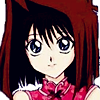
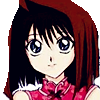
optimise the show of peopleview

Changed region(s): [[0.0, 0.0, 0.21, 0.93], [0.69, 0.0, 0.99, 0.36]]

diff --git a/TaleofMonsters2/Forms/PeopleViewForm.cs b/TaleofMonsters2/Forms/PeopleViewForm.cs
@@ -23,7 +23,7 @@ namespace TaleofMonsters.Forms
         private bool showImage;
         private int realTar = -1;
         private ImageToolTip tooltip = MainItem.SystemToolTip.Instance;
-        private List<DbRivalState> people;
+        private List<DbRivalState> peopleList;
         private VirtualRegion vRegion;
 
         private List<int> types;
@@ -32,7 +32,7 @@ namespace TaleofMonsters.Forms
         {
             InitializeComponent();
             this.bitmapButtonClose.ImageNormal = PicLoader.Read("Button.Panel", "CloseButton1.JPG");
-            people = new List<DbRivalState>();
+            peopleList = new List<DbRivalState>();
             vRegion = new VirtualRegion(this);
             vRegion.AddRegion(new PictureRegion(1, 41, 40, 70, 70, PictureRegionCellType.People, 0));
             for (int i = 0; i < 20; i++)
@@ -76,9 +76,7 @@ namespace TaleofMonsters.Forms
             IsChangeBgm = true;
 
             if (UserProfile.InfoBasic.LastRival > 0)
-            {
                 FastBind(UserProfile.InfoBasic.LastRival);
-            }
         }
 
         private void Fight()
@@ -86,7 +84,7 @@ namespace TaleofMonsters.Forms
             if (realTar == -1)
                 return;
 
-            PeopleConfig peopleConfig = ConfigData.GetPeopleConfig(people[realTar].Pid);
+            PeopleConfig peopleConfig = ConfigData.GetPeopleConfig(peopleList[realTar].Pid);
             if (peopleConfig.Emethod == "")
             {
                 ControlPlus.MessageBoxEx.Show("目前版本暂不开放！");
@@ -101,15 +99,13 @@ namespace TaleofMonsters.Forms
         private static List<int> GetPeopleAvailTypes()
         {
             List<int> typeLists = new List<int>();
-            foreach (var person in UserProfile.InfoRival.Rivals.Values)
+            foreach (var rivalData in UserProfile.InfoRival.Rivals.Values)
             {
-                if (person.Avail)
+                if (rivalData.Avail)
                 {
-                    int personType = ConfigData.GetPeopleConfig(person.Pid).Type;
-                    if (personType!=0 && !typeLists.Contains(personType))
-                    {
+                    int personType = ConfigData.GetPeopleConfig(rivalData.Pid).Type;
+                    if (personType != 0 && !typeLists.Contains(personType))
                         typeLists.Add(personType);
-                    }
                 }
             }
             typeLists.Sort();
@@ -118,8 +114,7 @@ namespace TaleofMonsters.Forms
 
         private void Bind(int type)
         {
-            people.Clear();
-            int off = 2;
+            peopleList.Clear();
 
             for (int i = 0; i < 20; i++)
             {
@@ -127,32 +122,35 @@ namespace TaleofMonsters.Forms
                 vRegion.SetRegionDecorator(i + 2, 0, "");
             }
 
-            foreach (var person in UserProfile.InfoRival.Rivals.Values)
+            foreach (var rivalData in UserProfile.InfoRival.Rivals.Values)
             {
-                if (person.Avail)
+                if (rivalData.Avail)
                 {
-                    PeopleConfig personInfo = ConfigData.GetPeopleConfig(person.Pid);
-                    if (personInfo.Type == type)
-                    {
-                        people.Add(person);
-                        vRegion.SetRegionKey(off, person.Pid);
-                        vRegion.SetRegionDecorator(off, 0, personInfo.Name);
-                        off++;
-                    }
+                    PeopleConfig peopleConfig = ConfigData.GetPeopleConfig(rivalData.Pid);
+                    if (peopleConfig.Type == type)
+                        peopleList.Add(rivalData);
                 }
             }
 
+            peopleList.Sort(new DbRivalState.CompareByQuality());
+            int off = 2;
+            foreach (var rivalData in peopleList)
+            {
+                vRegion.SetRegionKey(off, rivalData.Pid);
+                PeopleConfig peopleConfig = ConfigData.GetPeopleConfig(rivalData.Pid);
+                vRegion.SetRegionDecorator(off, 0, peopleConfig.Name);
+                off++;
+            }
             realTar = 0;
-            vRegion.SetRegionKey(1, people[realTar].Pid);
+            vRegion.SetRegionKey(1, peopleList[realTar].Pid);
             Invalidate();
         }
 
         private void virtualRegion_RegionEntered(int id, int x, int y, int key)
         {
-
             if (id == 1 && realTar != -1)
             {
-                Image image = PeopleBook.GetPreview(people[realTar].Pid);
+                Image image = PeopleBook.GetPreview(peopleList[realTar].Pid);
                 tooltip.Show(image, this, x, y);
             }
             else
@@ -173,11 +171,11 @@ namespace TaleofMonsters.Forms
                 if (id > 1 && id < 30)
                 {
                     int tar = id - 2;                   
-                    if (tar < people.Count)
+                    if (tar < peopleList.Count)
                     {
                         realTar = tar;
-                        vRegion.SetRegionKey(1, people[realTar].Pid);
-                        UserProfile.InfoBasic.LastRival = people[realTar].Pid;
+                        vRegion.SetRegionKey(1, peopleList[realTar].Pid);
+                        UserProfile.InfoBasic.LastRival = peopleList[realTar].Pid;
                         Invalidate();
                     }
                 }
@@ -202,9 +200,9 @@ namespace TaleofMonsters.Forms
                 return;
             Bind(peopleConfig.Type);
             vRegion.SetRegionKey(1, id);
-            for (int i = 0; i < people.Count; i++)
+            for (int i = 0; i < peopleList.Count; i++)
             {
-                if (people[i].Pid == id)
+                if (peopleList[i].Pid == id)
                 {
                     realTar = i;
                     break;
@@ -239,7 +237,7 @@ namespace TaleofMonsters.Forms
                     int xoff = 35;
                     int yoff = 35;
                     Font fontsong = new Font("宋体", 10*1.33f, FontStyle.Regular, GraphicsUnit.Pixel);
-                    PeopleConfig peopleConfig = ConfigData.GetPeopleConfig(people[realTar].Pid);
+                    PeopleConfig peopleConfig = ConfigData.GetPeopleConfig(peopleList[realTar].Pid);
                     e.Graphics.DrawString(string.Format("{0} (Lv{1})", peopleConfig.Name, peopleConfig.Level), fontsong, Brushes.White, xoff + 100, yoff + 10);
                     e.Graphics.DrawString("来自", fontsong, Brushes.DarkGray, xoff+100, yoff+28);
                     e.Graphics.DrawString(peopleConfig.World, fontsong, Brushes.Cyan, xoff + 140, yoff + 28);
@@ -250,8 +248,8 @@ namespace TaleofMonsters.Forms
                         foreach (var deckAttr in DeckBook.GetDeckAttrs(peopleConfig.Emethod, peopleConfig.Level))
                             e.Graphics.DrawImage(HSIcons.GetIconsByEName(deckAttr), xoff + 140 + i++*18, yoff + 46, 16, 16);
                     }
-                    int win = people[realTar].Win;
-                    int loss = people[realTar].Loss;
+                    int win = peopleList[realTar].Win;
+                    int loss = peopleList[realTar].Loss;
                     int rate = 0;
                     if (win + loss != 0)
                         rate = win * 100 / (win + loss);

diff --git a/TaleofMonsters2/Forms/Items/Regions/PictureRegion.cs b/TaleofMonsters2/Forms/Items/Regions/PictureRegion.cs
@@ -34,6 +34,7 @@ namespace TaleofMonsters.Forms.Items.Regions
             if (nid > 0)
             {
                 Image img = null;
+                HsActionCallback preAction = null;
                 HsActionCallback action = null;
                 if (type == PictureRegionCellType.Item)
                 {
@@ -81,6 +82,16 @@ namespace TaleofMonsters.Forms.Items.Regions
                 else if (type == PictureRegionCellType.People)
                 {
                     img = DataType.Peoples.PeopleBook.GetPersonImage(nid);
+                    preAction = () =>
+                    {
+                        var peopleConfig = ConfigData.GetPeopleConfig(nid);
+                        if (peopleConfig.Quality > 0)
+                        {
+                            var brush = new SolidBrush(Color.FromName(HSTypes.I2QualityColor(peopleConfig.Quality)));
+                            g.FillRectangle(brush, X + 3, Y + 3, Width - 6, Height - 6);
+                            brush.Dispose();
+                        }
+                    };
                 }
                 else if (type == PictureRegionCellType.HeroSkill)
                 {
@@ -114,6 +125,8 @@ namespace TaleofMonsters.Forms.Items.Regions
                     img = DungeonBook.GetDungeonItemImage(nid);
                 }
 
+                if (preAction != null)
+                    preAction();
                 if (img != null)
                 {
                     if (Scale == 1)
@@ -132,9 +145,7 @@ namespace TaleofMonsters.Forms.Items.Regions
                     }
                 }
                 if (action != null)
-                {
                     action();
-                }
             }
 
             foreach (IRegionDecorator decorator in decorators)

diff --git a/TaleofMonsters2/DataType/User/Db/DbRivalState.cs b/TaleofMonsters2/DataType/User/Db/DbRivalState.cs
@@ -1,4 +1,6 @@
-using TaleofMonsters.Core;
+using System.Collections.Generic;
+using ConfigDatas;
+using TaleofMonsters.Core;
 
 namespace TaleofMonsters.DataType.User.Db
 {
@@ -20,6 +22,27 @@ namespace TaleofMonsters.DataType.User.Db
             Win = 0;
             Loss = 0;
             Avail = false;
+        }
+
+
+        internal class CompareByQuality : IComparer<DbRivalState>
+        {
+            #region IComparer<DbRivalState> 成员
+
+            public int Compare(DbRivalState x, DbRivalState y)
+            {
+                if (x.Pid == 0)
+                    return 1;
+                if (y.Pid == 0)
+                    return -1;
+                var xPeople = ConfigData.GetPeopleConfig(x.Pid);
+                var yPeople = ConfigData.GetPeopleConfig(y.Pid);
+                if (xPeople.Quality != yPeople.Quality)
+                    return xPeople.Quality.CompareTo(yPeople.Quality);
+                return xPeople.Level.CompareTo(yPeople.Level);
+            }
+
+            #endregion
         }
     }
 }

diff --git a/TaleofMonsters2/Forms/Items/Regions/PictureAnimRegion.cs b/TaleofMonsters2/Forms/Items/Regions/PictureAnimRegion.cs
@@ -14,27 +14,21 @@ namespace TaleofMonsters.Forms.Items.Regions
             base.Draw(g);
 
             if (isIn && nid > 0)
-            {
                 g.DrawRectangle(Pens.Yellow, X, Y, Width - 1, Height - 1);
-            }
         }
 
         public override void Enter()
         {
             base.Enter();
             if (parent != null)
-            {
                 parent.Invalidate(new Rectangle(X, Y, Width, Height));
-            }
         }
 
         public override void Left()
         {
             base.Left();
             if (parent != null)
-            {
                 parent.Invalidate(new Rectangle(X, Y, Width, Height));
-            }
         }
     }
 }
